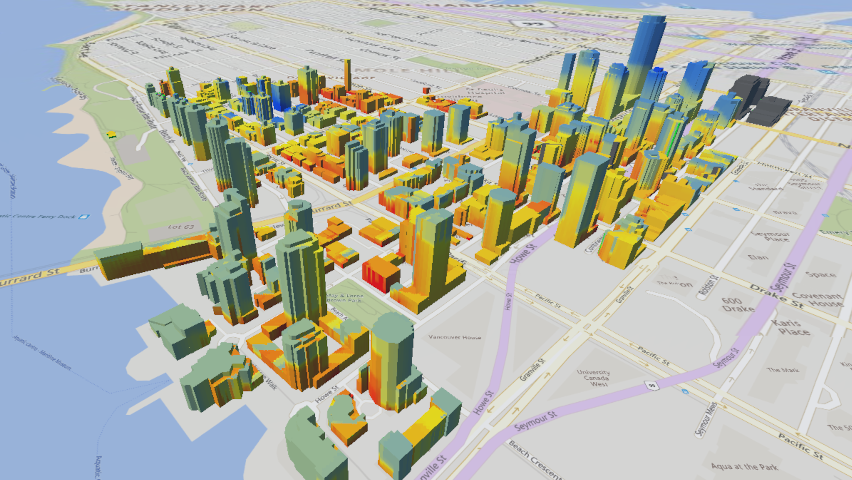
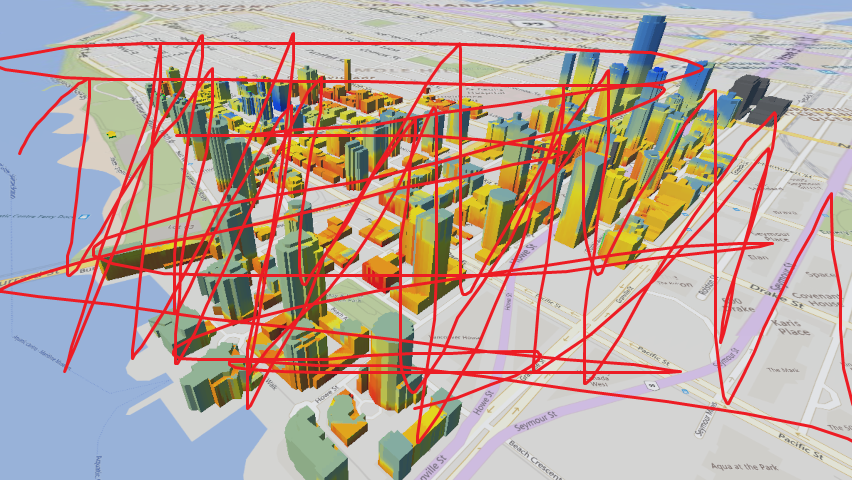
Test PR

diff --git a/README.md b/README.md
@@ -6,6 +6,8 @@
     </picture>
 </p>
 
+*BLABLA*
+
 Horizon is a real-time 3D engine for visualizing map data on a globe. It is cross-platform, cross-browser, and defines a language-independent API.
 
 * [Features](#features)
